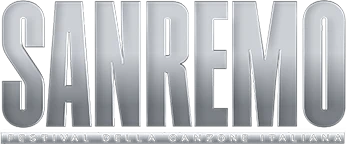
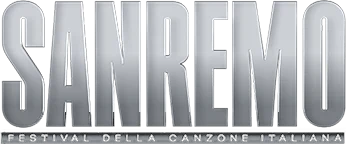
Drop the thesis references from the pages, darken the Sanremo tagline
The section subtitles no longer open with «dalla tesi» and the enlarged
view no longer lists the thesis page. In the colour Sanremo logo the
white «Festival della Canzone Italiana» line, nearly invisible on white,
is now in the site's ink; logo URLs carry a version so browsers reload.

Claude-Session: https://claude.ai/code/session_013zzpFvxLxFjBUHz7WSiQWw

diff --git a/src/App.tsx b/src/App.tsx
@@ -520,7 +520,7 @@ function Serie({ t }: { t: TesiFormato }) {
   const rows = all ? t.tabella.rows : t.tabella.rows.slice(0, 12)
   return (
     <section className="mt-32">
-      <SectionHead title="la serie delle edizioni" sub="dalla tesi · continuità, discontinuità e cambi di fase del formato" />
+      <SectionHead title="la serie delle edizioni" sub="continuità, discontinuità e cambi di fase del formato" />
       <div className="grid gap-10 md:grid-cols-4">
         <div className="space-y-5 font-serif text-[15px] leading-[1.65] tracking-normal text-ink md:col-span-2">
           {t.edizioniTesto.map((p, i) => (
@@ -630,7 +630,7 @@ function Edizione({ f, e, go, open }: { f: Format; e: Edition; go: (r: Route) =>
 
       {c && (
         <section className="mt-32">
-          <SectionHead title="spiegazione e analisi" sub="dalla tesi · contesto, progetto grafico e rapporto con il formato" />
+          <SectionHead title="spiegazione e analisi" sub="contesto, progetto grafico e rapporto con il formato" />
           <div className="grid gap-10 md:grid-cols-4">
             <div className="space-y-5 md:col-span-2">
               {c.descrizione.map((p, i) => (
@@ -861,7 +861,6 @@ function Lightbox({ img, close }: { img: Image; close: () => void }) {
         ['edizione', annoFoto(x)],
         ['tipo', x.t],
         ...(x.d ? [[/^https?:\/\//.test(x.d) ? 'fonte' : 'didascalia o fonte', /^https?:\/\//.test(x.d) ? <a href={x.d} target="_blank" rel="noreferrer" className="break-all font-serif text-[14px] tracking-normal underline decoration-g100 underline-offset-2 hover:decoration-ink">{x.d.replace(/^https?:\/\/(www\.)?/, '')}</a> : <span className="font-serif text-[15px] leading-snug tracking-normal">{x.d}</span>] as [string, ReactNode]] : []),
-        ...(x.l ? [['nella tesi', `p. ${x.l}`] as [string, ReactNode]] : []),
       ]
     : [['formato', img.formato.toLowerCase()], [img.logo ? 'prima edizione' : 'edizione', img.edizione.toLowerCase()], ['tipo di applicazione', img.tipo.toLowerCase()], ['didascalia', img.didascalia.toLowerCase()]]
   return (

diff --git a/src/components/Logo.tsx b/src/components/Logo.tsx
@@ -2,6 +2,8 @@ import dims from '../data/loghi.json'
 
 const BASE = `${import.meta.env.BASE_URL}loghi/`
 const size = dims as Record<string, { w: number; h: number }>
+// Da cambiare quando si rifanno i file dei loghi, perché il browser non usi le copie vecchie
+const VERSIONE = 2
 
 // Logo del formato in tre versioni: nero di giorno, bianco di notte, a colori al passaggio del mouse.
 // Il contenitore deve avere la classe `group` perché il colore compaia sull'hover; `colore` lo mostra sempre.
@@ -11,7 +13,7 @@ export default function Logo({ id, name, colore = false, className = '' }: { id:
   if (!d) return null
   const img = (v: string, cls: string, alt = '') => (
     <img
-      src={`${BASE}${id}-${v}.webp`}
+      src={`${BASE}${id}-${v}.webp?${VERSIONE}`}
       width={d.w}
       height={d.h}
       alt={alt}
